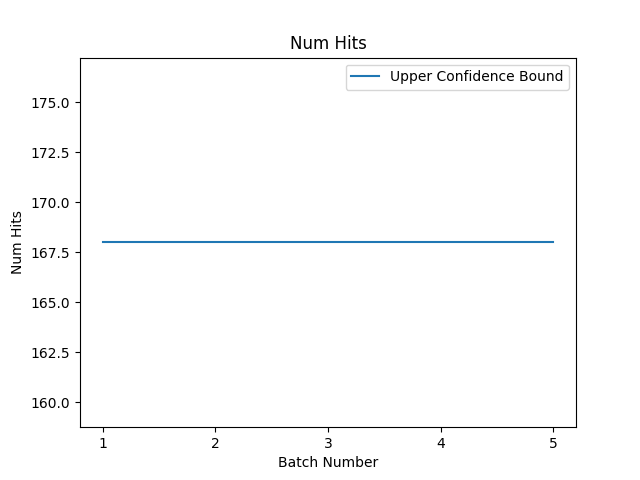
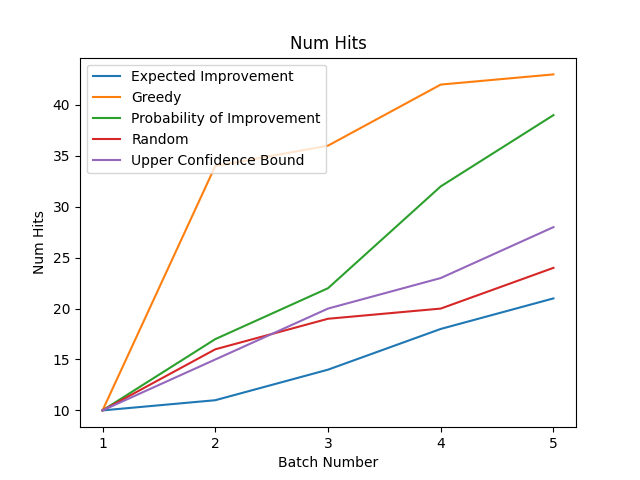
improve tox21 dataloading speed

diff --git a/main.py b/main.py
@@ -1,7 +1,9 @@
 from acquistion_functions import optimize_acquisition_function, probability_of_improvement_acquisition, greedy_acquisition, expected_improvement_acquisition, random_acquisition, upper_confidence_bound_acquisition
 from data_loaders.ames import Ames
 from data_loaders.dataset import DataLoader
+from data_loaders.tox21 import Tox21
 from models import XGBoostModel
+from models.gaussian_process import GaussianProcessModel
 from results import Result
 import numpy as np
 from typing import Callable, Dict
@@ -9,7 +11,7 @@ from typing import Callable, Dict
 from visualizers.visualize_model_progress import visualize_hits
 
 NUM_ACTIVE_LEARNING_LOOPS = 5
-THRESHOLD = 0.01
+THRESHOLD = 0.001
 
 # Parameters for acquisition functions
 xi_factor = 0.5 # for Expected Improvement
@@ -71,23 +73,24 @@ def test_acquisition_function(
 
 if __name__ == "__main__":
     # 1: load the fingerprint + label data + set the threshold for the succes metric
-    # loader = Tox21()
-    loader = Ames()
+    loader = Tox21()
+    # loader = Ames()
     initial_dataset_size = loader.size()
-    print(f"loaded {loader.name} dataset. num entries: {initial_dataset_size}")
+    print(f"loaded {loader.name} dataset. num entries: {initial_dataset_size}, num_y=1:{loader.y(np.arange(initial_dataset_size)).sum()}")
 
     # 2: initialize the model + initialise the first 100 data points from the dataset
     active_dataset = np.arange(0, initial_dataset_size//20) # TODO: randomize the indices?
 
     acquisition_functions = [
-        #(expected_improvement_acquisition, "Expected Improvement"),
-        #(greedy_acquisition, "Greedy"),
-        #(probability_of_improvement_acquisition, "Probability of Improvement"),
-        #(random_acquisition, "Random"),
+        (expected_improvement_acquisition, "Expected Improvement"),
+        (greedy_acquisition, "Greedy"),
+        (probability_of_improvement_acquisition, "Probability of Improvement"),
+        (random_acquisition, "Random"),
         (upper_confidence_bound_acquisition, "Upper Confidence Bound"),
     ] 
 
-    model = XGBoostModel()
+    # model = XGBoostModel()
+    model = GaussianProcessModel()
     optimization_results: Dict[str, Result] = {}
     for acquisition_function, name in acquisition_functions:
         optimization_results[name] = test_acquisition_function(

diff --git a/data_loaders/tox21.py b/data_loaders/tox21.py
@@ -10,11 +10,11 @@ class Tox21(DataLoader):
         label_list = retrieve_label_name_list('Tox21')
         self.data = Tox(name = 'Tox21', label_name = label_list[0]).get_data()
 
-        # TODO: use real features
-        self.transformer = FingerprintsTransformer(self.data,"Drug", "ECFP")
+        transformer = FingerprintsTransformer(self.data,"Drug", "ECFP")
         
-        #self.data["num_oxygen"] = self.data["Drug"].str.count("O")
         self.name = "Tox21"
+        self.x_values = transformer.to_np()
+        self.y_values = self.data["Y"].to_numpy()
 
     def size(self):
         return len(self.data)
@@ -23,7 +23,7 @@ class Tox21(DataLoader):
     #     return np.expand_dims(self.data.iloc[dataset_slice_indices]["num_oxygen"].to_numpy(), 1)
 
     def x(self, dataset_slice_indices: np.ndarray) -> np.ndarray:
-        return self.transformer.to_np()[dataset_slice_indices]
+        return self.x_values[dataset_slice_indices]
 
     def y(self, dataset_slice_indices):
-        return self.data.iloc[dataset_slice_indices]["Y"].to_numpy()
+        return self.y_values[dataset_slice_indices]

diff --git a/transformer/fingerprints.py b/transformer/fingerprints.py
@@ -3,7 +3,6 @@ import numpy as np
 from rdkit import Chem
 from rdkit.Chem import AllChem
 from rdkit import DataStructs
-from mordred import Calculator, descriptors
 
 class FingerprintsTransformer:
     def __init__(self, dataset: pd.DataFrame, col_mol:str, fingerprint_type:str):
